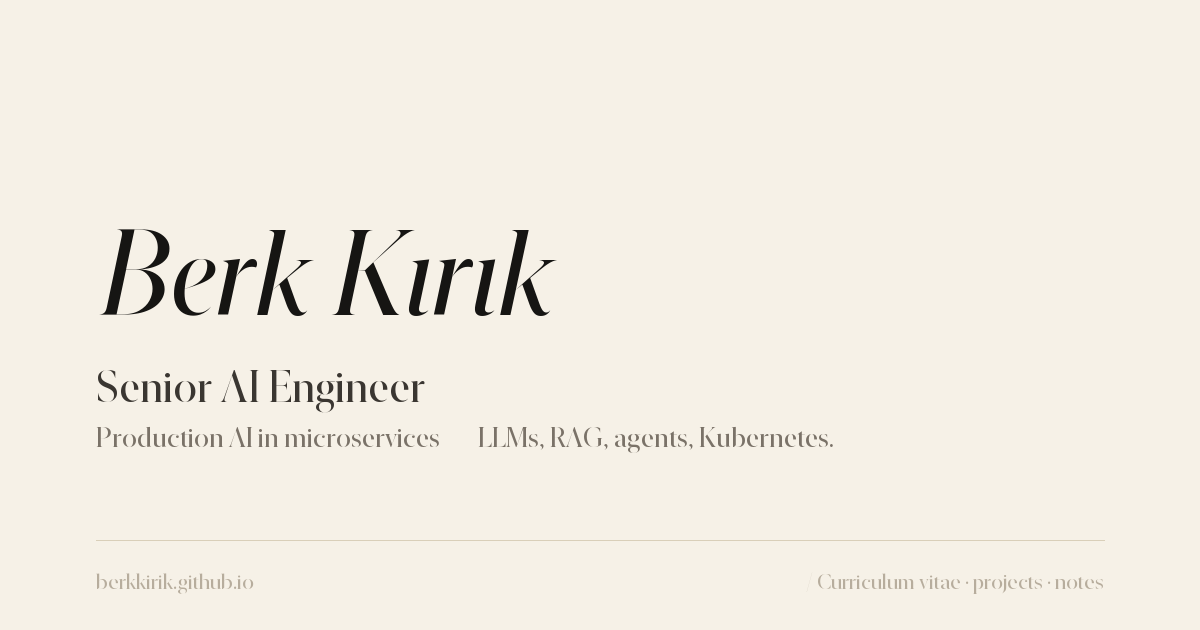
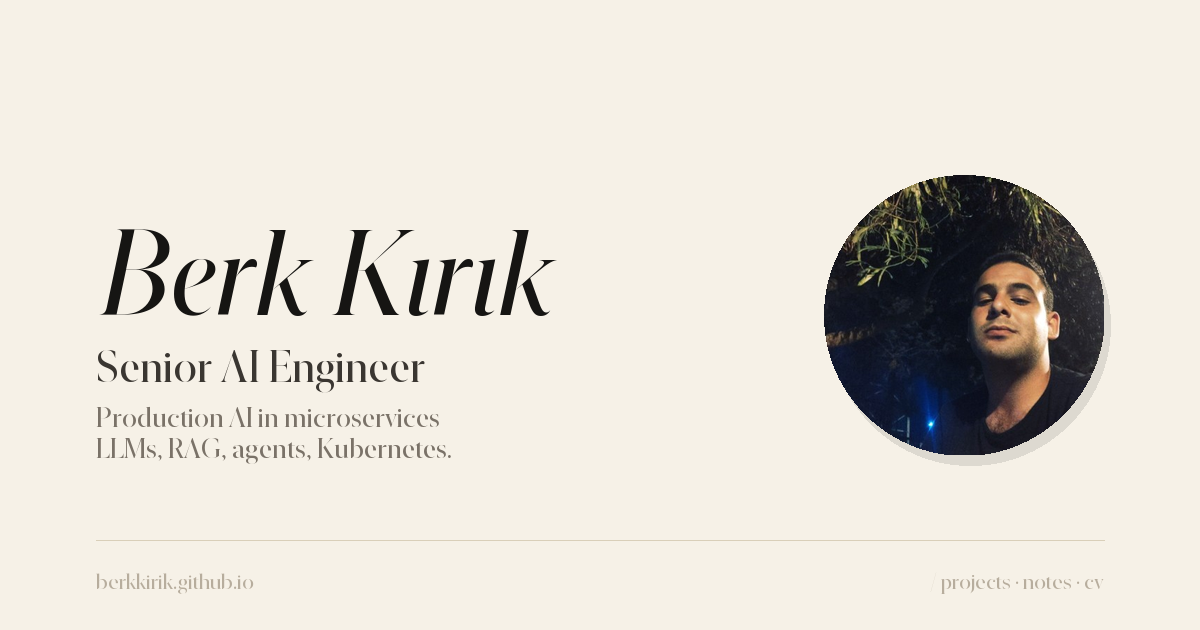
Add portrait photo to homepage and OG image
- New: public/photo.jpg (400x400 LinkedIn portrait)
- Homepage: render as a 96px circular avatar between the README eyebrow
  and the headline, with hairline border + soft shadow
- OG image: regenerated to include the portrait on the right side of
  the 1200x630 card, with subtle drop shadow. Re-runnable via
  scripts/generate_og.py whenever the photo is replaced

diff --git a/src/styles/global.css b/src/styles/global.css
@@ -996,6 +996,17 @@ section + section,
 	border: 0;
 }
 
+/* Portrait — small circular avatar, hairline border, soft shadow */
+.portrait {
+	width: 96px;
+	height: 96px;
+	border-radius: 50%;
+	object-fit: cover;
+	border: 1px solid var(--rule);
+	box-shadow: 0 2px 14px rgba(22, 21, 19, 0.07);
+	display: block;
+}
+
 .muted {
 	color: var(--ink-muted);
 }

diff --git a/scripts/generate_og.py b/scripts/generate_og.py
@@ -72,31 +72,58 @@ def main() -> None:
     img = Image.new("RGB", (W, H), BG)
     draw = ImageDraw.Draw(img)
 
-    # Layout: generous left margin, content stacked left-aligned
-    x = 96
+    # Optional portrait — circular, on the right side
+    portrait_path = REPO / "public" / "photo.jpg"
+    portrait_size = 280
+    portrait_x = W - portrait_size - 96
+    portrait_y = (H - portrait_size) // 2
+    text_x = 96
+
+    if portrait_path.exists():
+        portrait = Image.open(portrait_path).convert("RGB")
+        portrait = portrait.resize((portrait_size, portrait_size), Image.LANCZOS)
+        # Circular mask
+        mask = Image.new("L", (portrait_size, portrait_size), 0)
+        ImageDraw.Draw(mask).ellipse((0, 0, portrait_size, portrait_size), fill=255)
+        # Soft shadow under the portrait
+        shadow_offset = 6
+        shadow = Image.new("RGBA", img.size, (0, 0, 0, 0))
+        ImageDraw.Draw(shadow).ellipse(
+            (
+                portrait_x + shadow_offset,
+                portrait_y + shadow_offset + 4,
+                portrait_x + portrait_size + shadow_offset,
+                portrait_y + portrait_size + shadow_offset + 4,
+            ),
+            fill=(22, 21, 19, 28),
+        )
+        img.paste(shadow, (0, 0), shadow.split()[3])
+        img.paste(portrait, (portrait_x, portrait_y), mask)
+
+    # Layout: text stacked on the left
     name_y = 200
-    role_y = 360
-    tag_y = 420
+    role_y = 340
+    tag_y = 400
     rule_y = 540
     meta_y = 568
 
-    draw.text((x, name_y), "Berk Kırık", fill=INK, font=name_font)
-    draw.text((x, role_y), "Senior AI Engineer", fill=INK_SOFT, font=role_font)
+    draw.text((text_x, name_y), "Berk Kırık", fill=INK, font=name_font)
+    draw.text((text_x, role_y), "Senior AI Engineer", fill=INK_SOFT, font=role_font)
     draw.text(
-        (x, tag_y),
-        "Production AI in microservices — LLMs, RAG, agents, Kubernetes.",
+        (text_x, tag_y),
+        "Production AI in microservices —\nLLMs, RAG, agents, Kubernetes.",
         fill=INK_MUTED,
         font=body_font,
     )
 
     # Hairline above the URL row
-    draw.line([(x, rule_y), (W - x, rule_y)], fill=RULE, width=1)
+    draw.line([(text_x, rule_y), (W - text_x, rule_y)], fill=RULE, width=1)
 
-    draw.text((x, meta_y), "berkkirik.github.io", fill=INK_FAINT, font=meta_font)
+    draw.text((text_x, meta_y), "berkkirik.github.io", fill=INK_FAINT, font=meta_font)
     # Right-aligned label
-    right_label = "/ Curriculum vitae · projects · notes"
+    right_label = "/ projects · notes · cv"
     rl_w = draw.textlength(right_label, font=meta_font)
-    draw.text((W - x - rl_w, meta_y), right_label, fill=INK_FAINT, font=meta_font)
+    draw.text((W - text_x - rl_w, meta_y), right_label, fill=INK_FAINT, font=meta_font)
 
     out = REPO / "public" / "og" / "default.png"
     out.parent.mkdir(parents=True, exist_ok=True)
